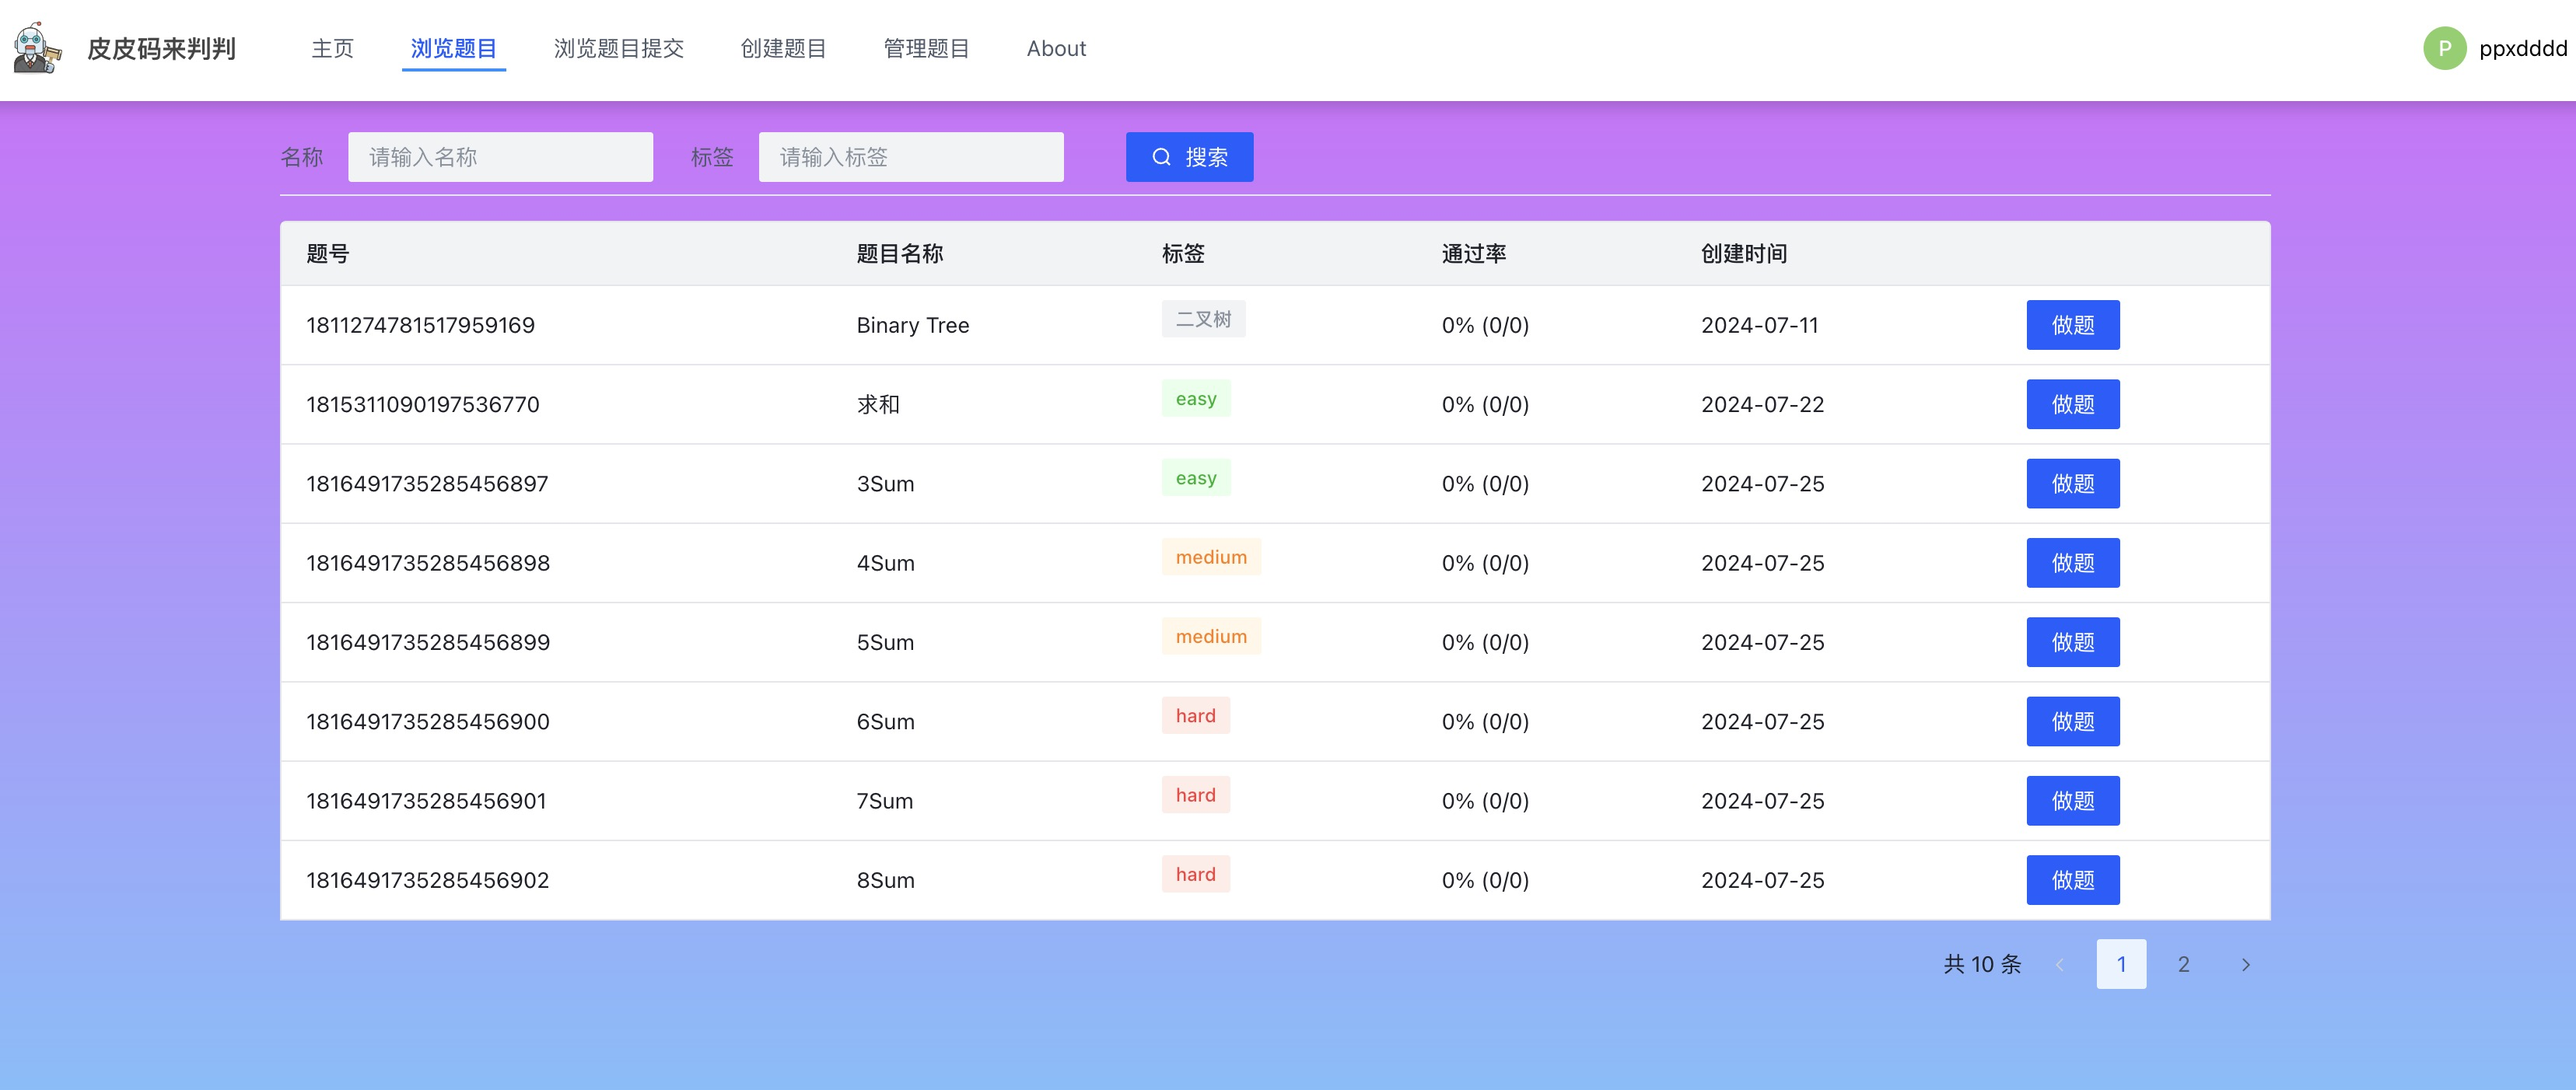
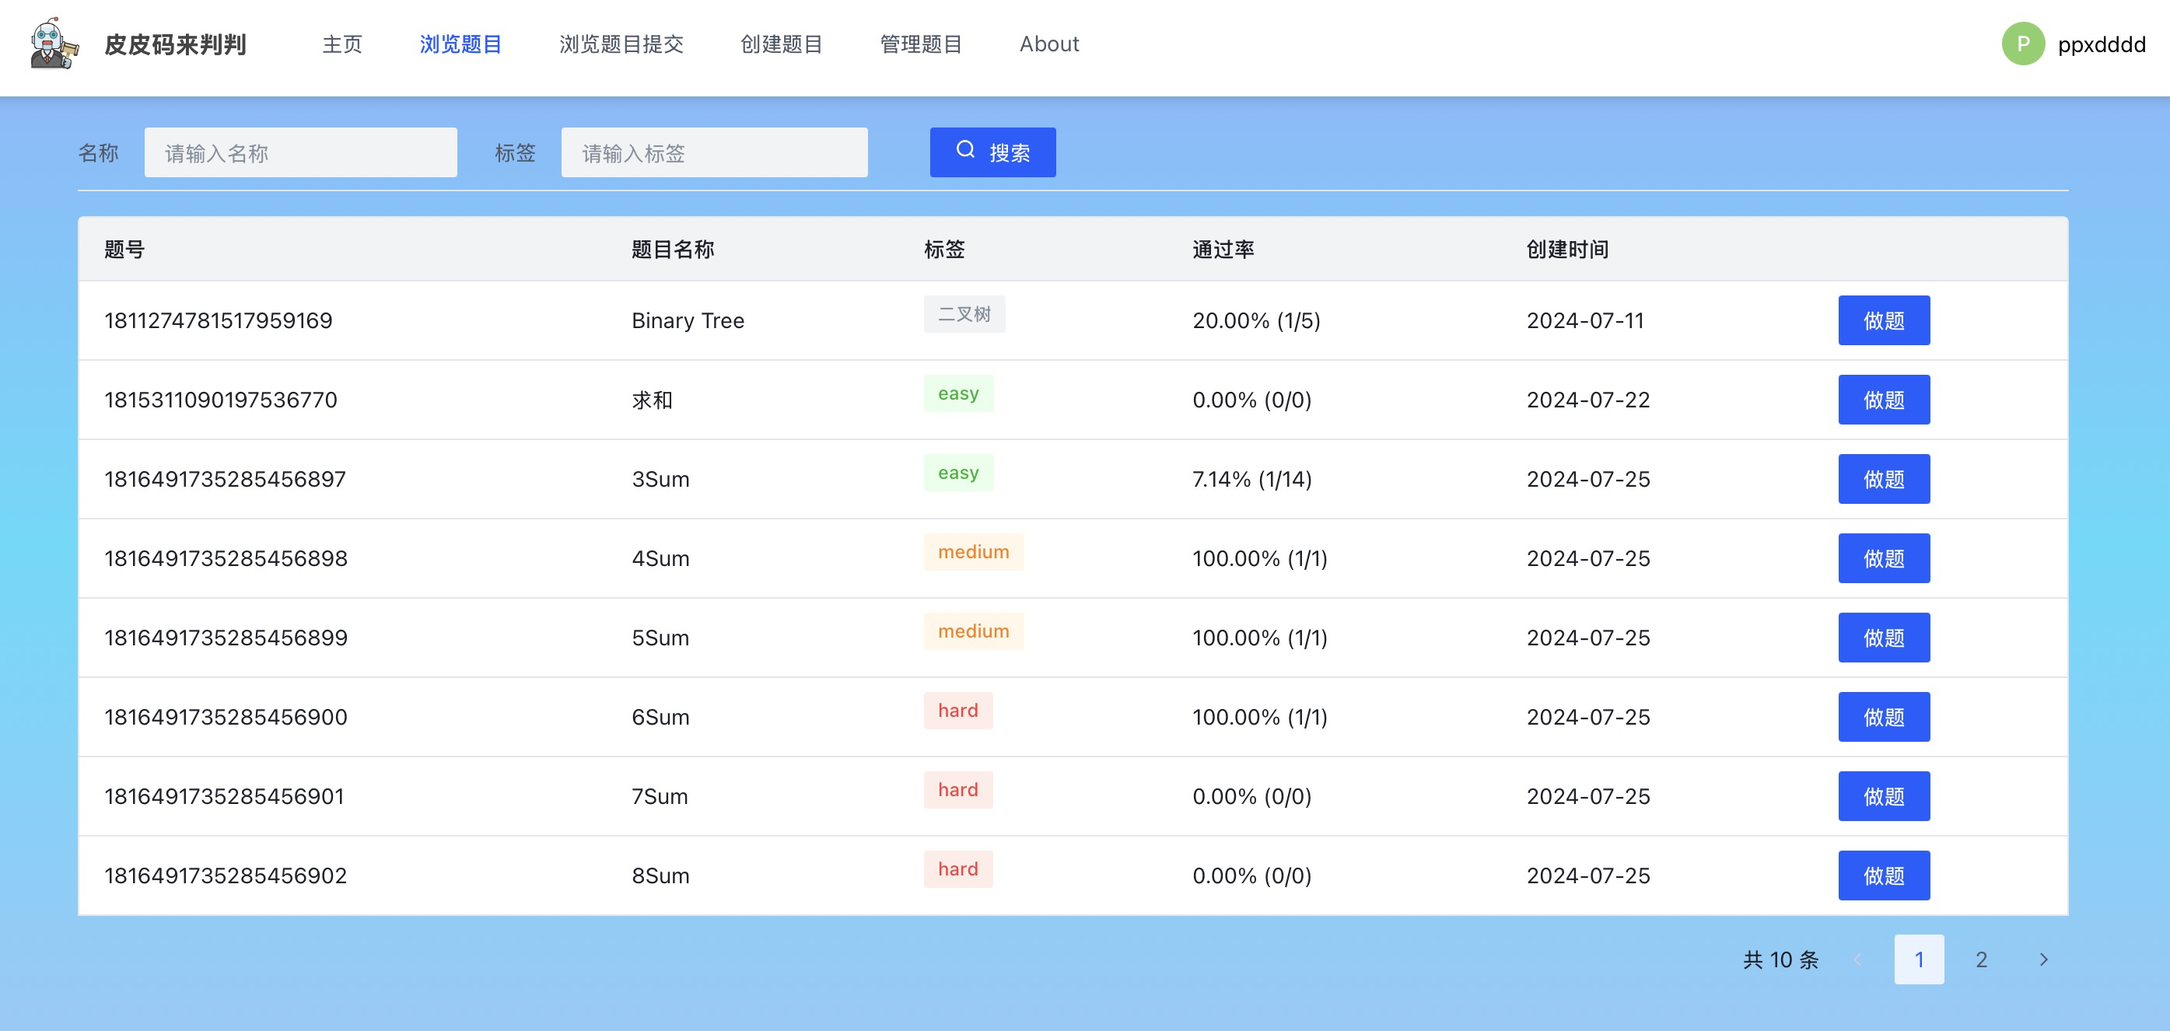
Accurate to two decimal places

diff --git a/src/views/question/QuestionsView.vue b/src/views/question/QuestionsView.vue
@@ -43,7 +43,9 @@
       <template #acceptedRate="{ record }">
         {{
           `${
-            record.submitNum ? record.acceptedNum / record.submitNum : "0"
+            record.submitNum
+              ? ((record.acceptedNum / record.submitNum) * 100).toFixed(2)
+              : "0.00"
           }% (${record.acceptedNum}/${record.submitNum})`
         }}
       </template>
